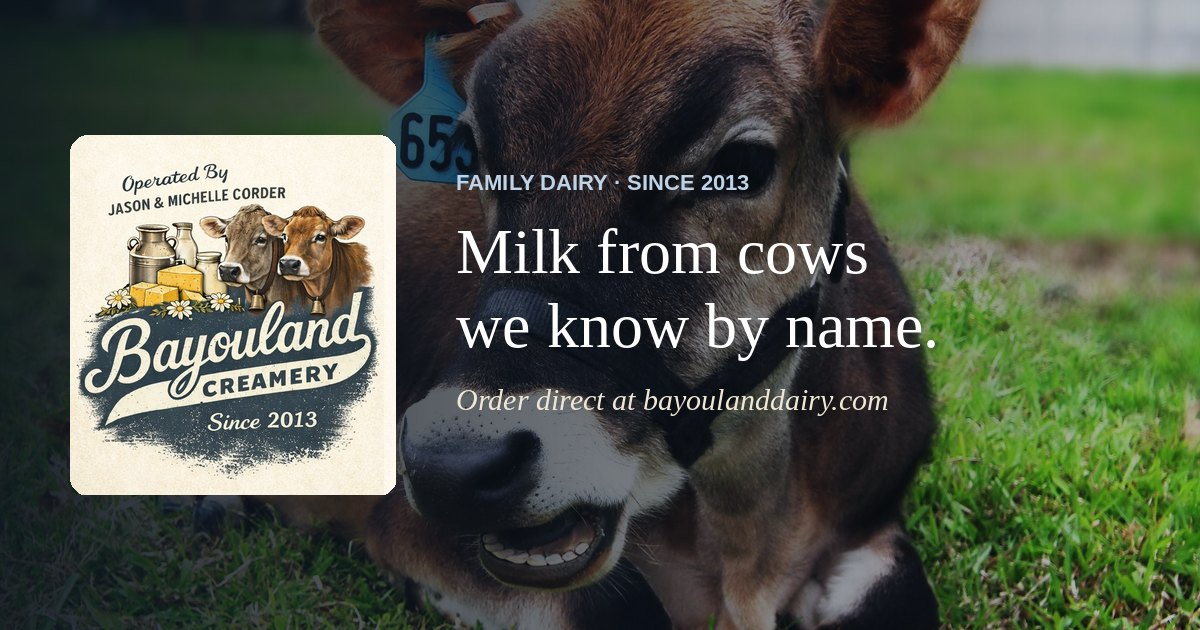
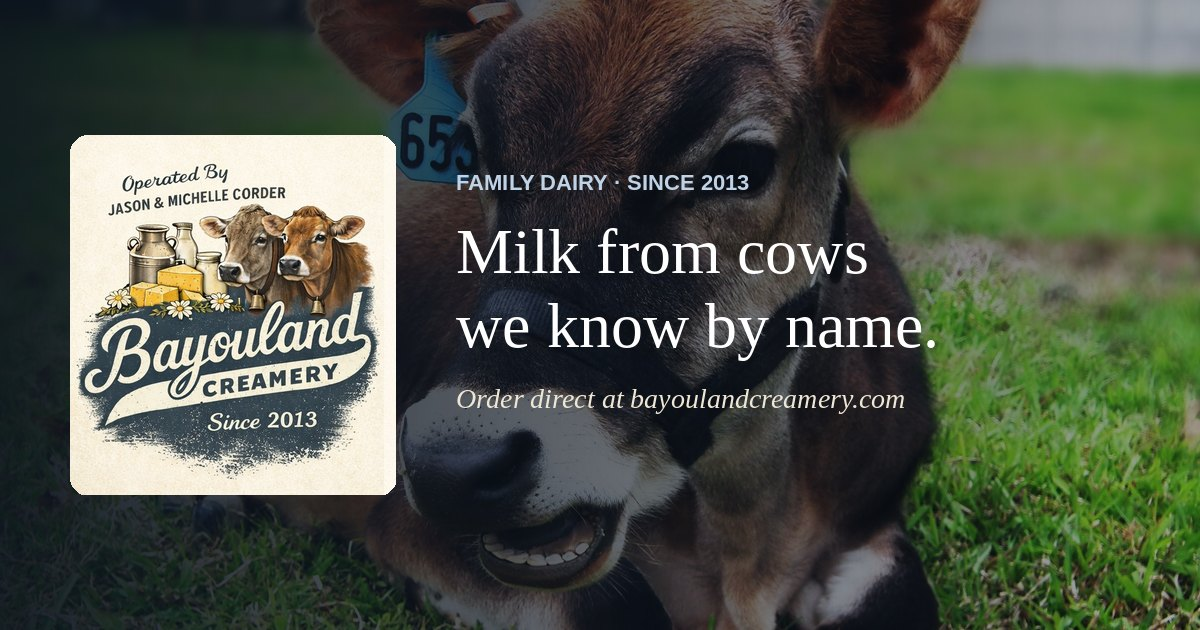
Switch creamery domain to bayoulandcreamery.com
Claude-Session: https://claude.ai/code/session_01GweXkNYvTBrfzUUwVznzXX

Changed region(s): [[0.37, 0.6032, 0.74, 0.6635]]

diff --git a/index.html b/index.html
@@ -5,7 +5,7 @@
 <meta name="viewport" content="width=device-width, initial-scale=1" />
 <title>Bayouland Creamery — Family Dairy Since 2013 · Crowley, LA</title>
 <meta name="description" content="Bayouland Creamery: farm-fresh dairy from the Corder family's Brown Swiss and Jersey herd in Crowley, Louisiana. Order direct from the farm." />
-<link rel="canonical" href="https://bayoulanddairy.com/" />
+<link rel="canonical" href="https://bayoulandcreamery.com/" />
 <meta name="theme-color" content="#2C3B4C" />
 
 <!-- Social sharing (Facebook, Instagram DMs, text messages, X, LinkedIn) -->
@@ -13,8 +13,8 @@
 <meta property="og:site_name" content="Bayouland Creamery" />
 <meta property="og:title" content="Bayouland Creamery — Family Dairy Since 2013" />
 <meta property="og:description" content="Farm-fresh dairy from a small Brown Swiss and Jersey herd in Crowley, Louisiana. Milk from cows we know by name." />
-<meta property="og:url" content="https://bayoulanddairy.com/" />
-<meta property="og:image" content="https://bayoulanddairy.com/assets/og-image.jpg" />
+<meta property="og:url" content="https://bayoulandcreamery.com/" />
+<meta property="og:image" content="https://bayoulandcreamery.com/assets/og-image.jpg" />
 <meta property="og:image:width" content="1200" />
 <meta property="og:image:height" content="630" />
 <meta property="og:image:alt" content="Bayouland Creamery logo beside a young calf resting in pasture" />
@@ -22,7 +22,7 @@
 <meta name="twitter:card" content="summary_large_image" />
 <meta name="twitter:title" content="Bayouland Creamery — Family Dairy Since 2013" />
 <meta name="twitter:description" content="Farm-fresh dairy from a small Brown Swiss and Jersey herd in Crowley, LA." />
-<meta name="twitter:image" content="https://bayoulanddairy.com/assets/og-image.jpg" />
+<meta name="twitter:image" content="https://bayoulandcreamery.com/assets/og-image.jpg" />
 
 <link rel="icon" type="image/png" href="assets/favicon-48.png" />
 <link rel="apple-touch-icon" href="assets/apple-touch-icon.png" />
@@ -38,10 +38,10 @@
   "@type": "Store",
   "name": "Bayouland Creamery",
   "description": "Farm-fresh dairy from a small Brown Swiss and Jersey herd in Crowley, Louisiana. Since 2013.",
-  "url": "https://bayoulanddairy.com/",
-  "logo": "https://bayoulanddairy.com/assets/logo-creamery.jpg",
-  "image": "https://bayoulanddairy.com/assets/og-image.jpg",
-  "email": "orders@bayoulanddairy.com",
+  "url": "https://bayoulandcreamery.com/",
+  "logo": "https://bayoulandcreamery.com/assets/logo-creamery.jpg",
+  "image": "https://bayoulandcreamery.com/assets/og-image.jpg",
+  "email": "orders@bayoulandcreamery.com",
   "foundingDate": "2013",
   "address": { "@type": "PostalAddress", "addressLocality": "Crowley", "addressRegion": "LA", "addressCountry": "US" },
   "parentOrganization": { "@type": "Organization", "name": "Bayouland Ag Enterprises" }
@@ -247,7 +247,7 @@
           <p class="muted">New calves, show-ring results, and what's fresh this week. Know someone who'd love farm-fresh dairy? Send this page their way.</p>
           <div class="share-row">
             <button type="button" class="btn" data-share data-share-title="Bayouland Creamery — Family Dairy" data-share-text="Farm-fresh dairy from a family herd in Crowley, LA — order direct.">Share this page</button>
-            <a class="btn btn--ghost" target="_blank" rel="noopener" href="https://www.facebook.com/sharer/sharer.php?u=https%3A%2F%2Fbayoulanddairy.com%2F">Share on Facebook</a>
+            <a class="btn btn--ghost" target="_blank" rel="noopener" href="https://www.facebook.com/sharer/sharer.php?u=https%3A%2F%2Fbayoulandcreamery.com%2F">Share on Facebook</a>
           </div>
         </div>
         <!-- Replace YOUR_... with your real page addresses; unset links stay hidden. -->
@@ -279,7 +279,7 @@
 
         <form id="order-form"
               data-endpoint="https://formspree.io/f/YOUR_FORM_ID"
-              data-fallback-email="orders@bayoulanddairy.com"
+              data-fallback-email="orders@bayoulandcreamery.com"
               method="POST" novalidate>
           <input type="hidden" name="_subject" value="New Bayouland Creamery order" />
           <input type="hidden" name="order_items" id="order-items" value="" />
@@ -357,7 +357,7 @@
       <div>
         <h4>Get in touch</h4>
         <ul>
-          <li><a href="mailto:orders@bayoulanddairy.com">orders@bayoulanddairy.com</a></li>
+          <li><a href="mailto:orders@bayoulandcreamery.com">orders@bayoulandcreamery.com</a></li>
           <li>Crowley, Louisiana</li>
           <li><a data-social href="https://www.facebook.com/YOUR_FACEBOOK_PAGE" target="_blank" rel="noopener">Facebook</a></li>
           <li><a data-social href="https://www.instagram.com/YOUR_INSTAGRAM" target="_blank" rel="noopener">Instagram</a></li>

diff --git a/README.md b/README.md
@@ -1,4 +1,4 @@
-# Bayouland Creamery — bayoulanddairy.com
+# Bayouland Creamery — bayoulandcreamery.com
 
 The standalone website for **Bayouland Creamery**, a Bayouland Ag Enterprises farm in Crowley, LA.
 Sister site: [Bayou Bees](https://bayoubees.com).
@@ -8,7 +8,7 @@ index.html    → the whole site (story, shop, follow along, order form)
 styles.css    → design
 site.js       → menu, order cart, order form, share button, social links
 404.html      → "page not found" page
-CNAME         → tells GitHub Pages to serve this repo at bayoulanddairy.com
+CNAME         → tells GitHub Pages to serve this repo at bayoulandcreamery.com
 robots.txt / sitemap.xml → help Google find the site
 assets/       → logos, photos, social preview image (og-image.jpg), icons
 ```
@@ -21,9 +21,9 @@ No build step: edit the files on GitHub (pencil icon) and commit, and the site u
 **Settings → Pages →** *Build and deployment*: **Source = Deploy from a branch**, **Branch = main / (root)** → Save.
 The site goes live at `https://cordercrew.github.io/bayouland-creamery/` first.
 
-## 2. Connect bayoulanddairy.com
-1. **Verify the domain first** (protects it from being hijacked): your GitHub profile picture → **Settings → Pages → Add a domain**, enter `bayoulanddairy.com`, and add the TXT record GitHub shows you at your domain registrar.
-2. In this repo: **Settings → Pages → Custom domain** → `bayoulanddairy.com` → Save. (The `CNAME` file is already here.)
+## 2. Connect bayoulandcreamery.com
+1. **Verify the domain first** (protects it from being hijacked): your GitHub profile picture → **Settings → Pages → Add a domain**, enter `bayoulandcreamery.com`, and add the TXT record GitHub shows you at your domain registrar.
+2. In this repo: **Settings → Pages → Custom domain** → `bayoulandcreamery.com` → Save. (The `CNAME` file is already here.)
 3. At your domain registrar, add these DNS records (delete any old A/CNAME records for `@` and `www` first):
 
 ```
@@ -39,13 +39,13 @@ CNAME  www  cordercrew.github.io
 Until this is set up, **Send order request** opens the customer's email app with the order filled in, so nothing is broken in the meantime.
 1. Sign up at **formspree.io** (free tier is fine) and create a form named "Bayouland Creamery orders". You'll get an address like `https://formspree.io/f/abcdwxyz`.
 2. In `index.html`, find `data-endpoint="https://formspree.io/f/YOUR_FORM_ID"` and paste your address in.
-3. On the same line, make sure `data-fallback-email="orders@bayoulanddairy.com"` is an inbox you actually check.
+3. On the same line, make sure `data-fallback-email="orders@bayoulandcreamery.com"` is an inbox you actually check.
 
 ## 4. Social media
 - **Your page links:** in `index.html`, search for `YOUR_` and replace with your real Facebook / Instagram / TikTok addresses. Any link left as `YOUR_…` stays hidden automatically, so fill in only the ones you use.
-- **Link previews:** when someone posts bayoulanddairy.com on Facebook or texts it, it shows `assets/og-image.jpg` with your logo and tagline. After the domain is live, paste the URL into Facebook's **Sharing Debugger** (developers.facebook.com/tools/debug) and click *Scrape Again* to make Facebook pick it up.
+- **Link previews:** when someone posts bayoulandcreamery.com on Facebook or texts it, it shows `assets/og-image.jpg` with your logo and tagline. After the domain is live, paste the URL into Facebook's **Sharing Debugger** (developers.facebook.com/tools/debug) and click *Scrape Again* to make Facebook pick it up.
 - **Share buttons:** the "Follow along" section has a *Share this page* button (opens the phone's share sheet or copies the link) and a *Share on Facebook* button.
-- **Google:** add the site to **Google Search Console** and submit `https://bayoulanddairy.com/sitemap.xml`. Setting up a free **Google Business Profile** for Bayouland Creamery is the biggest single boost for "fresh milk near Crowley" searches.
+- **Google:** add the site to **Google Search Console** and submit `https://bayoulandcreamery.com/sitemap.xml`. Setting up a free **Google Business Profile** for Bayouland Creamery is the biggest single boost for "fresh milk near Crowley" searches.
 
 ## 5. Everyday edits
 - **Prices:** search `index.html` for `price on request` and replace the whole `<span class="ph">…</span>` with the number, e.g. `$<span>14</span>`.
